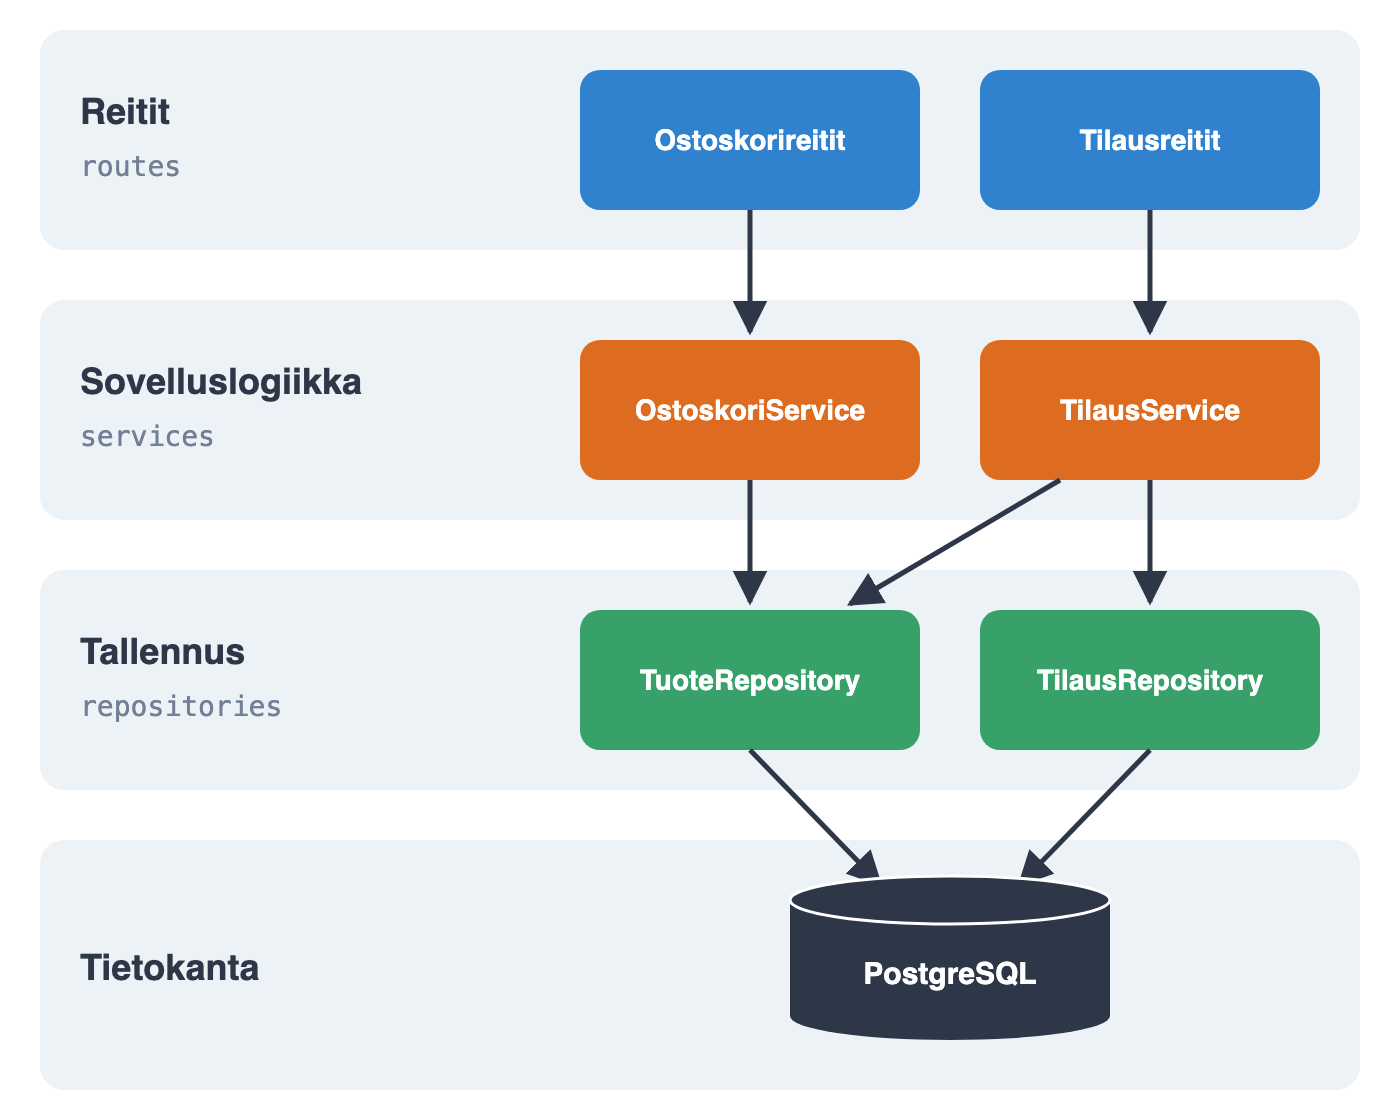
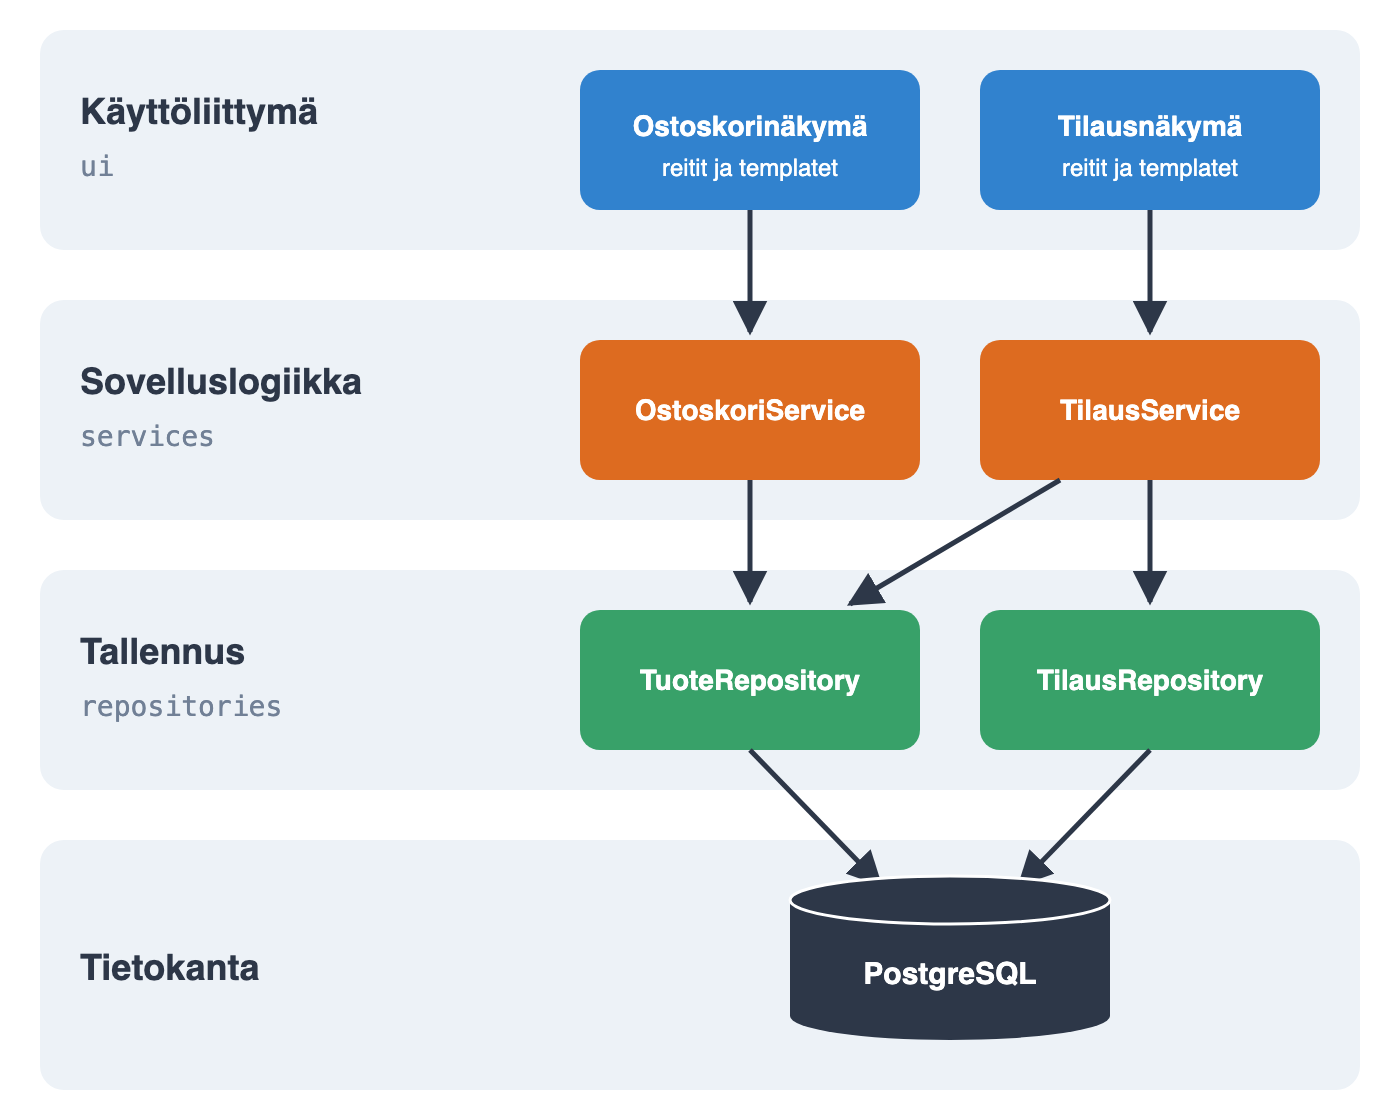
Osa 4: verkkokauppa Flask-web-sovelluksena, kerrosarkkitehtuuriin ui-kerros ja C4-kaaviot päivitetty

Changed region(s): [[0.43, 0.0938, 0.6143, 0.1562], [0.0614, 0.0625, 0.2457, 0.1562], [0.7371, 0.0938, 0.8907, 0.1562]]

diff --git a/osa4.md b/osa4.md
@@ -101,9 +101,9 @@ Useimmiten sovelluksen rakenteesta löytyy monien arkkitehtuuristen tyylien piir
 
 Arkkitehtuurityyleistä varmasti tunnetuin ja eniten käytetty on _kerrosarkkitehtuuri_ (engl. layered architecture), jossa pyrkimyksenä on jakaa sovellus käsitteellisiin kerroksiin, joissa kukin kerros suorittaa oman "abstraktiotason" tehtäväänsä käyttäen ainoastaan sen alapuolella olevan kerroksen palveluja.
 
-Kerrosarkkitehtuurissa ylimmät kerrokset ovat lähempänä käyttäjää. Ylimpänä kerroksena on yleensä käyttöliittymä ja tämän alapuolella sovelluslogiikasta vastaava kerros. Alimmat kerrokset taas keskittyvät koneläheisiin asioihin, kuten tiedon tallennukseen tai verkon yli tapahtuvaan kommunikaatioon. Seuraavassa kuvassa esimerkkinä on alempana tarkemmin esiteltävän kuvitteellisen verkkokaupan palvelinpuolen (backend) kerrosrakenne. Verkkokaupan käyttöliittymä on selaimessa toimiva sovellus, joten backendin ylimpänä kerroksena ovat reitit, eli HTTP-rajapinta, jota selainsovellus kutsuu:
+Kerrosarkkitehtuurissa ylimmät kerrokset ovat lähempänä käyttäjää. Ylimpänä kerroksena on yleensä käyttöliittymä ja tämän alapuolella sovelluslogiikasta vastaava kerros. Alimmat kerrokset taas keskittyvät koneläheisiin asioihin, kuten tiedon tallennukseen tai verkon yli tapahtuvaan kommunikaatioon. Seuraavassa kuvassa esimerkkinä on alempana tarkemmin esiteltävän kuvitteellisen verkkokaupan kerrosrakenne:
 
-![Kerrosarkkitehtuuri: reitit käyttävät sovelluslogiikan OstoskoriServiceä ja TilausServiceä, jotka käyttävät tallennuskerroksen repositorioita, jotka puolestaan käyttävät tietokantaa]({{ "/images/4-22.png" | relative_url }}){:height="350px" }
+![Kerrosarkkitehtuuri: käyttöliittymän näkymät käyttävät sovelluslogiikan OstoskoriServiceä ja TilausServiceä, jotka käyttävät tallennuskerroksen repositorioita, jotka puolestaan käyttävät tietokantaa]({{ "/images/4-22.png" | relative_url }}){:height="350px" }
 
 Käytännössä kukin kerros on kokoelma toisiinsa liittyviä olioita tai komponentteja, jotka muodostavat oman abstraktiotasonsa toiminnallisuuden suhteen loogisen kokonaisuuden.
 
@@ -115,7 +115,9 @@ Kerrosarkkitehtuuri on sovelluskehittäjän kannalta selkeä ja hyvin ymmärrett
 
 #### Verkkokaupan arkkitehtuuri
 
-Tarkastellaan verkkokaupan backendia hieman tarkemmin. Se on Pythonilla ja Flask-kirjastolla toteutettu yksinkertainen sovellus, jonka kerrosrakenne näkyy koodin tasolla siinä, miten sovelluksen koodi jakautuu hakemistoihin:
+Tarkastellaan verkkokauppaa hieman tarkemmin. Se on Pythonilla ja Flask-kirjastolla toteutettu yksinkertainen web-sovellus, joka muodostaa käyttäjälle näytettävät HTML-sivut palvelimella templatejen avulla. Käyttöliittymäkerros koostuu siis Flaskin reiteistä, jotka käsittelevät selaimen HTTP-pyynnöt ja kutsuvat sovelluslogiikkaa, sekä templateista, joiden avulla reitit muodostavat sivut.
+
+Sovelluksen kerrosrakenne näkyy koodin tasolla siinä, miten sovelluksen koodi jakautuu hakemistoihin:
 
 ```
 src/
@@ -129,19 +131,23 @@ src/
 ├── services/
 │   ├── ostoskori_service.py
 │   └── tilaus_service.py
-├── routes/
-│   ├── ostoskori.py
-│   └── tilaukset.py
+├── ui/
+│   ├── ostoskori_routes.py
+│   ├── tilaus_routes.py
+│   └── templates/
+│       ├── tuotteet.html
+│       ├── ostoskori.html
+│       └── tilaus.html
 └── app.py
 ```
 
 Arkkitehtuuria heijasteleva pakkausrakenne voidaan kuvata UML:n [pakkauskaaviolla](https://ohjelmistotekniikka-hy.github.io/python/viikko3#pakkauskaavio):
 
-![UML-pakkauskaavio: routes riippuu pakkauksesta services, joka riippuu pakkauksista repositories ja entities; repositoriot riippuvat entities-pakkauksen luokista Tuote ja Tilaus]({{ "/images/4-23.png" | relative_url }}){:height="400px" }
+![UML-pakkauskaavio: ui riippuu pakkauksesta services, joka riippuu pakkauksista repositories ja entities; repositoriot riippuvat entities-pakkauksen luokista Tuote ja Tilaus]({{ "/images/4-23.png" | relative_url }}){:height="400px" }
 
-Pakkauksina kuvattujen kerroksien välille on merkitty riippuvuudet katkoviivalla. Reitit _routes_ riippuvat sovelluslogiikasta _services_, joka taas riippuu tallennuskerroksesta _repositories_.
+Pakkauksina kuvattujen kerroksien välille on merkitty riippuvuudet katkoviivalla. Käyttöliittymä _ui_ riippuu sovelluslogiikasta _services_, joka taas riippuu tallennuskerroksesta _repositories_.
 
-Käytännössä riippuvuus tarkoittaa sitä, että ylemmän kerroksen koodista kutsutaan jotain alemman kerroksen koodin metodia. Kerrosarkkitehtuurin hengen mukaisesti riippuvuuksia on vain ylhäältä alas, eli esim. sovelluslogiikkakerroksen koodi ei kutsu reittien koodia.
+Käytännössä riippuvuus tarkoittaa sitä, että ylemmän kerroksen koodista kutsutaan jotain alemman kerroksen koodin metodia. Kerrosarkkitehtuurin hengen mukaisesti riippuvuuksia on vain ylhäältä alas, eli esim. sovelluslogiikkakerroksen koodi ei kutsu käyttöliittymäkerroksen koodia.
 
 Sekä sovelluslogiikka, että tallennuspalvelut käyttävät pakkauksen _entities_-olioita. Vaikka kyseinen pakkaus kuuluu loogisesti ajateltuna tallennuspalveluita ylempään "bisneslogiikkakerrokseen", ohjelmakoodin tasolla alempana oleva tallennuskerros on riippuvainen pakkauksesta sillä se käsittelee pakkauksen luokkien koodia.
 
@@ -169,11 +175,11 @@ Tarkastellaan esimerkkinä edellä esiteltyä verkkokauppaa. Ylimmällä tasolla
 
 _Container-kaavio_ avaa järjestelmän sisällön. Containerilla C4 tarkoittaa erikseen ajettavaa osaa, kuten selainsovellusta, palvelinsovellusta tai tietokantaa (kyse ei siis välttämättä ole Docker-kontista). Kaavio kertoo myös kunkin containerin toteutusteknologian ja sen, miten containerit kommunikoivat:
 
-![C4-container-kaavio: verkkokaupan sisällä selainsovellus kutsuu backendia REST/JSON-rajapinnan kautta, backend käyttää PostgreSQL-tietokantaa ja kutsuu ulkoisia maksunvälittäjää ja sähköpostipalvelua]({{ "/images/4-20.png" | relative_url }}){:height="300px" }
+![C4-container-kaavio: asiakas käyttää verkkokaupan Flask-web-sovellusta selaimella HTTPS:n yli, web-sovellus käyttää PostgreSQL-tietokantaa ja kutsuu ulkoisia maksunvälittäjää ja sähköpostipalvelua]({{ "/images/4-24.png" | relative_url }}){:height="300px" }
 
-_Komponenttikaavio_ tarkentaa yhden containerin sisäisen rakenteen. Backendin komponenttikaavio näyttää saman kerrosrakenteen, joka nähtiin jo kerrosarkkitehtuurin yhteydessä: reitit käyttävät sovelluslogiikan palveluja, jotka käyttävät tietokantaa repositorioiden kautta. Lisäksi kaaviosta näkyy, mitkä komponentit kommunikoivat containerin ulkopuolisten osien kanssa:
+_Komponenttikaavio_ tarkentaa yhden containerin sisäisen rakenteen. Web-sovelluksen komponenttikaavio näyttää saman kerrosrakenteen, joka nähtiin jo kerrosarkkitehtuurin yhteydessä: käyttöliittymä käyttää sovelluslogiikan palveluja, jotka käyttävät tietokantaa repositorioiden kautta. Lisäksi kaaviosta näkyy, mitkä komponentit kommunikoivat containerin ulkopuolisten osien kanssa:
 
-![C4-komponenttikaavio: backendin reitit kutsuvat OstoskoriServiceä ja TilausServiceä, jotka käyttävät TuoteRepositoryä ja TilausRepositoryä; TilausService kutsuu myös maksunvälittäjää ja repositoriot käyttävät tietokantaa]({{ "/images/4-21.png" | relative_url }}){:height="400px" }
+![C4-komponenttikaavio: asiakas käyttää web-sovelluksen käyttöliittymäkomponenttia (Flask-reitit ja templatet), joka kutsuu OstoskoriServiceä ja TilausServiceä, jotka käyttävät TuoteRepositoryä ja TilausRepositoryä; TilausService kutsuu myös maksunvälittäjää ja repositoriot käyttävät tietokantaa]({{ "/images/4-25.png" | relative_url }}){:height="400px" }
 
 Neljäs taso eli koodi kuvataan tarvittaessa esim. UML:n luokkakaaviolla, mutta useimmiten se jätetään piirtämättä. Kaavioita piirretään yhä useammin koodina tekstimuotoisilla työkaluilla, kuten [Mermaid](https://mermaid.js.org/) ja [Structurizr](https://structurizr.com/), jolloin ne voidaan versioida koodin rinnalla.
 
@@ -217,7 +223,7 @@ _Mikropalveluarkkitehtuuri_ (engl. microservices), joka yleistyi 2010-luvulla er
 
 Mikropalveluihin perustuvassa sovelluksessa yksittäisistä palveluista pyritään tekemään mahdollisimman _riippumattomia_ ja löyhästi toisiinsa kytkettyjä. Palvelut eivät esimerkiksi käytä yhteistä tietokantaa eivätkä jaa koodia. Palvelut eivät kutsu suoraan toistensa metodeja, sen sijaan ne kommunikoivat verkon välityksellä.
 
-Mikropalveluiden on tarkoitus olla suhteellisen pieniä ja huolehtia vain "yhdestä asiasta". Jos edellä esimerkkinä ollut verkkokauppa toteutettaisiin yhden kerrosarkkitehtuuria noudattavan backendin sijaan mikropalveluina, erillisiä mikropalveluja voisivat olla esimerkiksi:
+Mikropalveluiden on tarkoitus olla suhteellisen pieniä ja huolehtia vain "yhdestä asiasta". Jos edellä esimerkkinä ollut verkkokauppa toteutettaisiin yhden kerrosarkkitehtuuria noudattavan sovelluksen sijaan mikropalveluina, erillisiä mikropalveluja voisivat olla esimerkiksi:
 
 - Käyttäjien hallinta
 - Tuotteiden suosittelu
